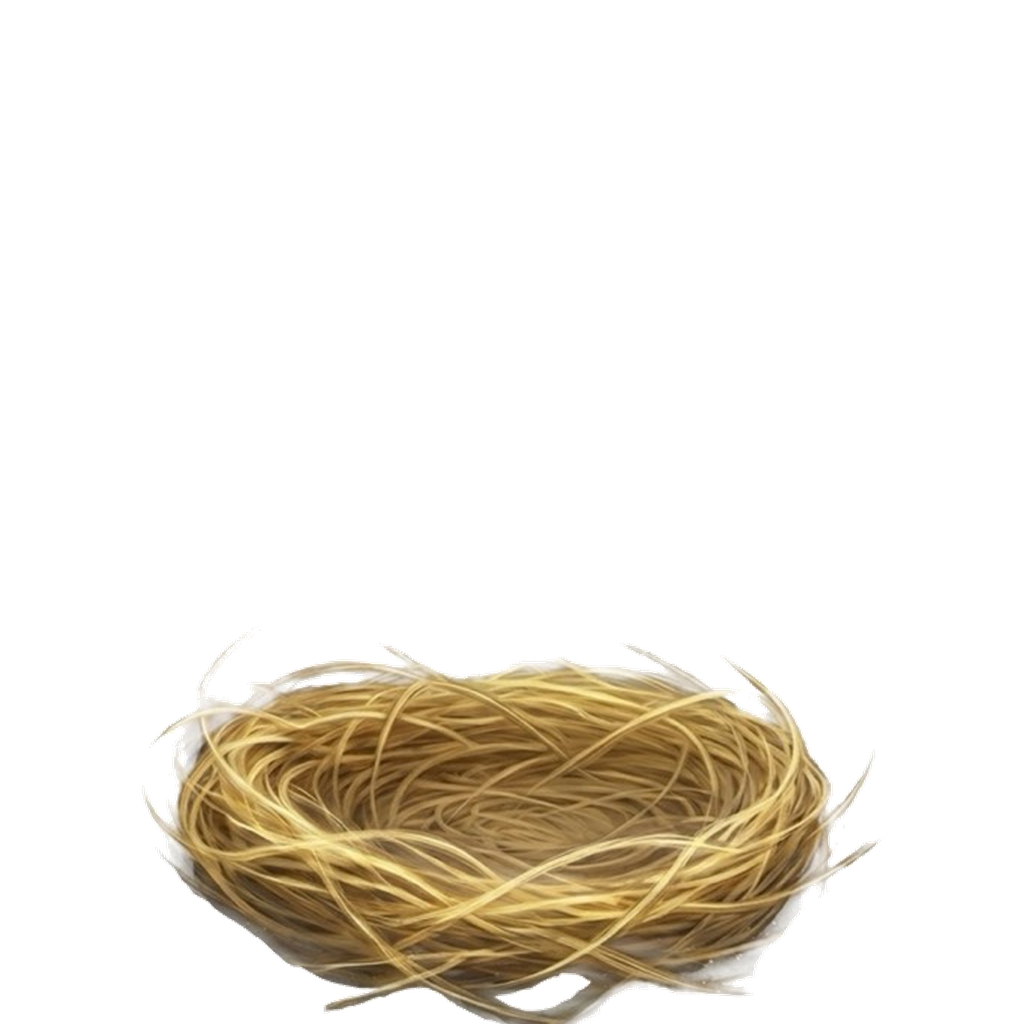
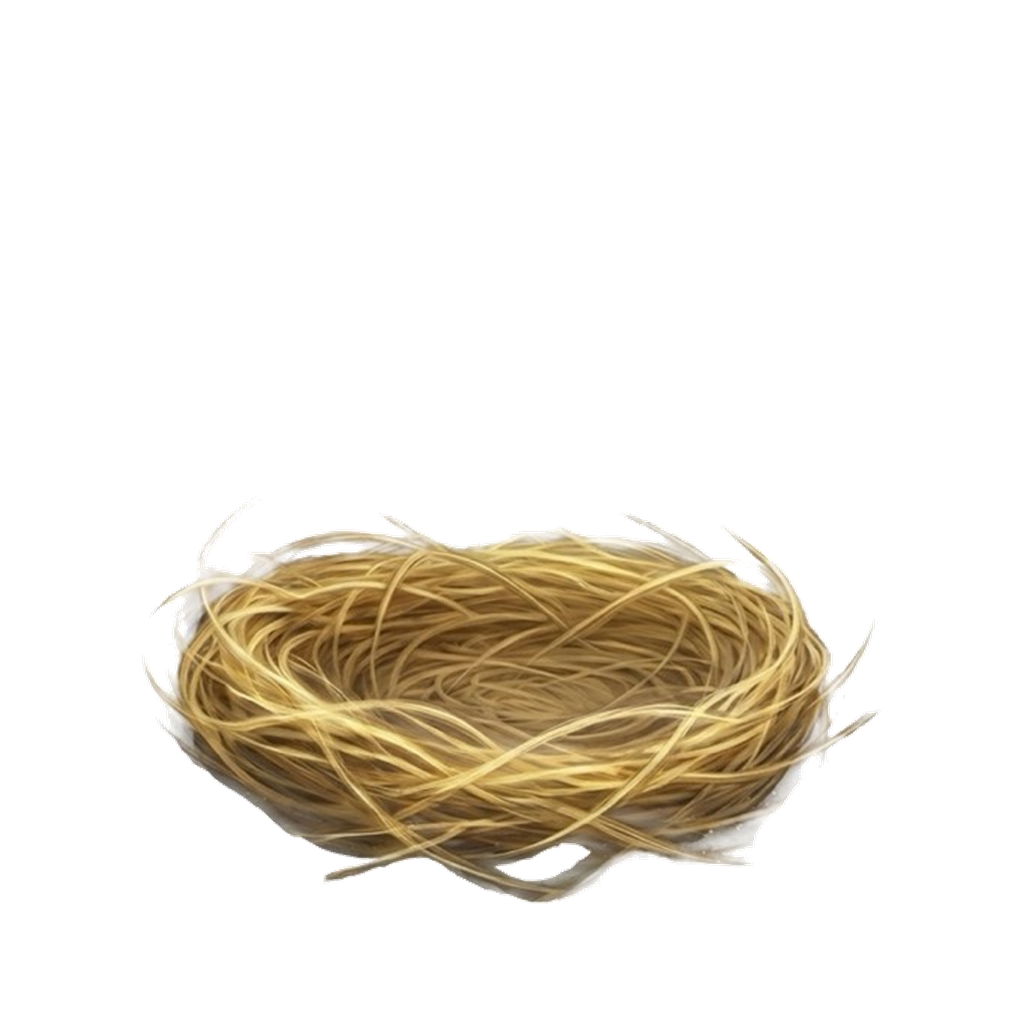
v118: move stage 2 nest slightly upwards to better position the egg inside it

Changed region(s): [[0.125, 0.5, 0.8438, 1.0]]

diff --git a/index.html b/index.html
@@ -16,7 +16,7 @@
   <link rel="preconnect" href="https://fonts.googleapis.com">
   <link rel="preconnect" href="https://fonts.gstatic.com" crossorigin>
   <link href="https://fonts.googleapis.com/css2?family=Orbitron:wght@400;700;900&family=Noto+Sans+JP:wght@300;400;500;700&display=swap" rel="stylesheet">
-  <link rel="stylesheet" href="css/index.css?v=117">
+  <link rel="stylesheet" href="css/index.css?v=118">
 </head>
 <body>
   <!-- プレイヤー登録モーダル -->
@@ -373,11 +373,11 @@
   <!-- BGMプレイヤー用 -->
   <div id="youtubePlayer" style="position: absolute; width: 1px; height: 1px; top: -9999px; left: -9999px; opacity: 0; pointer-events: none;"></div>
 
-  <script src="js/main.js?v=117"></script>
+  <script src="js/main.js?v=118"></script>
   <!-- Google API Scripts -->
   <script async defer src="https://apis.google.com/js/api.js" onload="gapiLoaded()"></script>
   <script async defer src="https://accounts.google.com/gsi/client" onload="gisLoaded()"></script>
   <script src="https://www.youtube.com/iframe_api"></script>
-  <script src="js/google_api.js?v=117"></script>
+  <script src="js/google_api.js?v=118"></script>
 </body>
 </html>

diff --git a/js/main.js b/js/main.js
@@ -1166,7 +1166,7 @@ function updateDragonNest(stageIndex) {
   nest.style.left = '0';
 
   if (stageIndex === 1) { // 第二段階（覚醒の卵）の時は巣を表示
-    nest.src = 'assets/dragons/stage2_nest_padded.png';
+    nest.src = 'assets/dragons/stage2_nest_padded.png?v=2';
     nest.style.display = 'block';
   } else {
     nest.style.display = 'none';

diff --git a/pad_stage2.py b/pad_stage2.py
@@ -62,7 +62,8 @@ try:
     out_nest = Image.new('RGBA', (w1, h1), (0,0,0,0))
     nest_x = (w1 - nest_new_w) // 2
     # position it at the bottom of the egg
-    nest_y = paste_y + egg1_h - int(nest_new_h * 0.7) 
+    # To move it slightly upwards, we increase the offset subtracted from the bottom
+    nest_y = paste_y + egg1_h - int(nest_new_h * 0.85) 
     out_nest.paste(nest_resized, (nest_x, nest_y))
     out_nest.save('assets/dragons/stage2_nest_padded.png')
     print("Saved scaled nest")
